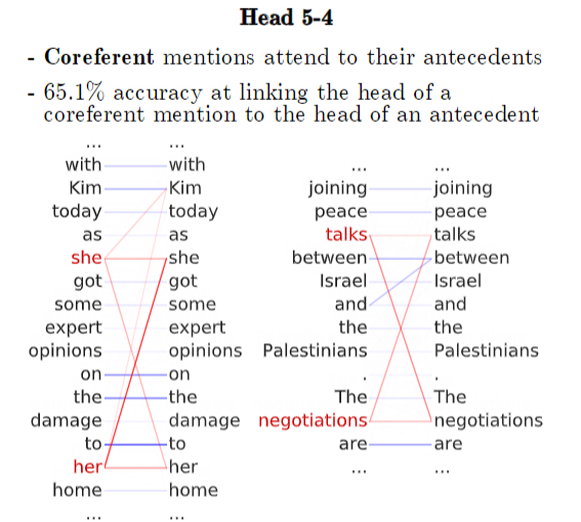
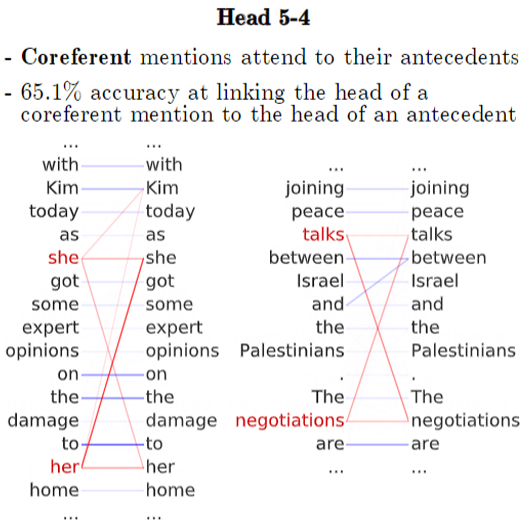
done BERT, done TransformerXL, and started XLNet, problems with bert

diff --git a/Report_NLPAlgos/BERT.tex b/Report_NLPAlgos/BERT.tex
@@ -12,7 +12,7 @@ Previous methods like \textbf{ULMFiT} and \nameref{sec:ELMo} use a \hyperref[sec
 \centering
 \includegraphics[width=0.9\textwidth]{imgs/bert_vs_elmo_vs_gpt.png}
 \vspace{-5pt}
-\caption{\footnotesize Comparing pre-training models: \nameref{sec:BERT} uses a \hyperref[sec:BidirectionalLM]{bidirectional} \nameref{sec:Transformer}. OpenAI GPT uses a \hyperref[sec:ForwardLM]{forward} \nameref{sec:Transformer}. \nameref{sec:ELMo} combines independently-trained \hyperref[sec:ForwardLM]{forward} and \hyperref[sec:BackwardLM]{backward} \hyperref[sec:LSTM]{LSTM}s. Among the three, only BERT embeddings are jointly conditioned on forward and backward context in all layers. Alongside architectural differences, BERT and OpenAI GPT are fine-tuning approaches, while ELMo is a feature-based approach (Devlin et al., 2019). From \emph{BERT: Pre-training of Deep Bidirectional Transformers for Language Understanding}, by Devlin et al., 2019. \url{https://arxiv.org/pdf/1810.04805.pdf}. Copyright 2019 by Devlin et al.}
+\caption{\footnotesize Comparing pre-training models: \nameref{sec:BERT} uses a \hyperref[sec:BidirectionalLM]{bidirectional} \nameref{sec:Transformer}. OpenAI GPT uses a \hyperref[sec:ForwardLM]{forward} \nameref{sec:Transformer}. \nameref{sec:ELMo} combines independently-trained \hyperref[sec:ForwardLM]{forward} and \hyperref[sec:BackwardLM]{backward} \hyperref[sec:LSTM]{LSTM}s. Among the three, only BERT embeddings are jointly conditioned on forward and backward context in all layers. Alongside architectural differences, BERT and OpenAI GPT are fine-tuning approaches, while ELMo is a feature-based approach (Devlin et al., 2019). \textit{NOTE: $E_n =$ the $n$-th token in the input sequence, and $T_n =$ the corresponding output embedding}. From \emph{BERT: Pre-training of Deep Bidirectional Transformers for Language Understanding}, by Devlin et al., 2019. \url{https://arxiv.org/pdf/1810.04805.pdf}. Copyright 2019 by Devlin et al.}
 \vspace{-5pt}
 \label{fig:NAME}
 \end{figure}
@@ -69,76 +69,59 @@ Ordinary \hyperref[sec:LanguageModels]{language models} perform badly for tasks 
 
 Training BERT using NSP is as follows: (1) sample sentence pairs \texttt{(A, B)} so that half the time \texttt{B} follows \texttt{A} (labeled as \texttt{IsNext}) and half the other time, \texttt{B} does not follow \texttt{A} (labeled as \texttt{NotNext}), then (2) BERT processes both sentences and uses a binary classifier to decide of \texttt{B} is the next sentence after \texttt{A} (Weng, 2019). 
 
+
+\subsection{Experimental Results of BERT} \label{sec:BERTExperimentalResults}
+
+% NOTE: the top width must be +0.5 more than below texwidth measure
+\begin{program}
+\begin{wrapfigure}{L}{0.7\textwidth}
+\begin{center}
+    \includegraphics[width=0.53\textwidth]{imgs/table_bert_vsOtherModels.png}
+\end{center}
+\captionof{table}{\footnotesize Accuracy (\%) of several models on \nameref{nlptask:sentimentclassificationSC} SST dataset. BERT has highest accuracy scores. From \emph{Table B.II in Fine-Grained Sentiment Classification Using BERT}, by Munikar et al., 2019. \url{https://arxiv.org/pdf/1910.03474.pdf}. Copyright 2019 by Munikar et al.}
+%\vspace{-5pt}
+\label{tbl:bertExperimentResults}
+\end{wrapfigure}
+
+Using a simple accuracy measure, Munikar et al. (2019) found that a pre-trained BERT model fine-tuned for \nameref{nlptask:sentimentanalysisSA} task outperformed complex models such as \hyperref[sec:RNN]{RNN}s and CNNs. The \cref{tbl:bertExperimentResults} includes results on phrases and entire reviews. 
+
+
+This proves \nameref{nlptask:transferlearning} is possible with BERT's deep contextual \hyperref[sec:BidirectionalLM]{bidirectional language model}.
+\end{program}
+
+
 \subsection{Probing BERT} \label{sec:ProbingBERT}
 
 BERT has surpassed state-of-the-art performance in a wide range of \hyperref[app:Appendix_NLPTasks]{nlp tasks} but it is not known why. Clark et al. (2019) use an ``attention-based probing classifier" to study BERT's internal vector representations to understand what kinds of linguistic features BERT learns from its self-supervised training on unlabeled data. 
 
+
+
 \subsubsection{BERT Learns Dependency Syntax} \label{sec:BERTLearnsSyntax}
 
-
-
-
-
 Firstly, Clark et al. (2019) found that BERT's attention heads behave similarly, like focusing on positional offsets or attending broadly over an entire sentence. 
----------
 
-While individual attention heads do not capture syntax dependency structure as a whole, it was found that certain attention heads are better at certain syntax dependency relations. For example, the heads detect ``direct objects of verbs, determiners of nouns, objects of prepositions, and objects of possessive pronouns with > $75 \%$ accuracy (Clark et al., 2019). 
-
-
-\begin{figure}[h]
-\vspace{-5pt}
-\centering
-\includegraphics[width=0.95\textwidth]{imgs/bert_attentionheads_SEP.png}
-\vspace{-5pt}
-\caption{\footnotesize BERT's attention heads in layers 6-10 spend more than half the average attention to separator tokens; deep heads attend to punctuation, while middle heads attend to \texttt{[SEP]}, and early heads attend to \texttt{[CLS]}. From \emph{What Does BERT Look At? An Analysis of BERT's Attention}, by Clark et al., 2019. \url{https://arxiv.org/abs/1906.04341}. Copyright 2019 by Clark et al.}
-\vspace{-5pt}
-\label{fig:bertSEPAttention}
-\end{figure}
-
-
-\cref{fig:bertHeadDirectObject} shows that attention heads 8-10 learn how direct objects attend to their verbs, and achieves high accuracy at the direct object relation task.
-
-
-
-
+Also, while individual attention heads do not capture syntax dependency structure as a whole, it was found that certain attention heads are better at certain syntax dependency relations. For example, the heads detect ``direct objects of verbs, determiners of nouns, objects of prepositions, and objects of possessive pronouns with > $75 \%$ accuracy (Clark et al., 2019). 
 
 \begin{figure}
 \centering
 \begin{minipage}{.4\textwidth}
   \centering
-  \includegraphics[width=.95\textwidth]{imgs/bert_headsDirectObject.png}
-  \captionof{figure}{\footnotesize THE DIRECT OBJECT GUY. From \emph{What Does BERT Look At? An Analysis of BERT's Attention}, by Clark et al., 2019. \url{https://arxiv.org/abs/1906.04341}. Copyright 2019 by Clark et al.}
+  \includegraphics[width=\textwidth]{imgs/bert_headsDirectObject.png}
+  \captionof{figure}{\footnotesize BERT attention heads capture syntax. In heads 8-10, direct objects are found to attend to their verbs. Line darkness indicates attention strength. Red indicates attention to/from red words, to highlight certain attentional behaviors. From \emph{What Does BERT Look At? An Analysis of BERT's Attention}, by Clark et al., 2019. \url{https://arxiv.org/abs/1906.04341}. Copyright 2019 by Clark et al.}
   \label{fig:bertHeadDirectObject}
 \end{minipage} \hspace{2em}%
 \begin{minipage}{.4\textwidth}
   \centering
-  \includegraphics[width=0.95\textwidth]{imgs/bert_headsCoref.png}
-  \captionof{figure}{\footnotesize THE DIRECT OBJECT GUY. From \emph{What Does BERT Look At? An Analysis of BERT's Attention}, by Clark et al., 2019. \url{https://arxiv.org/abs/1906.04341}. Copyright 2019 by Clark et al.}
+  \includegraphics[width=\textwidth]{imgs/bert_headsCoref.png}
+  \captionof{figure}{\footnotesize BERT attention heads capture syntax. In heads 5-4, BERT does some \nameref{nlptask:coreferenceresolutionCR} with high accuracy at linking the head of a coreferent mention to the head of an antecedent. From \emph{What Does BERT Look At? An Analysis of BERT's Attention}, by Clark et al., 2019. \url{https://arxiv.org/abs/1906.04341}. Copyright 2019 by Clark et al.}
   \label{fig:bertCoref}
 \end{minipage}
 \end{figure}
 
 
+\cref{fig:bertHeadDirectObject} shows that attention heads 8-10 learn how direct objects attend to their verbs, and achieves high accuracy at the direct object relation task. The fact that BERT learns this via self-supervision coupled with the heads' propensity for learning syntax may explain BERT's success. 
 
-
-
-
-
-
-
-
-Also,  shows how ti godes well on coreference. 
-
-
-The fact that BERT learns this via self-supervision coupled with the heads' propensity for learning syntax may explain BERT's success. 
-
-
-
-
----------
-
-
-Thirdly, BERT's attention heads performed well for \nameref{nlptask:coreferenceresolutionCR}. 
+Also, \cref{fig:bertCoref} shows BERT's attention heads performed well for the semantic task \nameref{nlptask:coreferenceresolutionCR}. This task is more challenging than syntax tasks since \hyperref[nlptask:coreferenceresolutionCR]{coreference} links span longer than syntax dependencies, and even state-of-the-art models do worse at \hyperref[nlptask:coreferenceresolutionCR]{coreference} than syntactic resolution. 
 
 
 
@@ -187,7 +170,31 @@ The above two investigations support the conclusion that BERT's attention heads 
 
 
 
-\subsubsection{BERT's Success At Polysemy} % PAPER: DOEs bert make any sense
+\subsubsection{BERT's Contribution To Polysemy} % PAPER: DOEs bert make any sense
 
-\subsection{How Contextual are CWEs?} % PAPER: how contextual are ...
-% TODO: or keep this paper as a view into CWE's only? 
+Using a kNN classification, Wiedemann et al. (2019) compared the \hyperref[sec:SolutionWithContextEmbs]{contextual embeddings (CWE)s} of \nameref{sec:ELMo} and \nameref{sec:BERT} on the \nameref{nlptask:wordsensedisambiguatioNWSD} task and found that \nameref{sec:BERT} places \hyperref[sec:Polysemy]{polysemic} words into distinct regions according to their senses, while \nameref{sec:ELMo} cannot. Specifically, in \nameref{sec:ELMo} embeddings, major word senses are less strongly separated than in the \nameref{sec:BERT} embedding space, where some senses are sharply clustered. 
+
+In \cref{tbl:bertPolysemy} Wiedemann et al. (2019) also made inferences about the semantic features of \nameref{sec:BERT}'s embeddings by studying how \nameref{sec:BERT} matched word senses from the test set to a given \hyperref[sec:Polysemy]{polysemic} word from a training set.
+
+
+
+\begin{table}[ht!]
+  \centering
+  \caption{\footnotesize Example predictions by \nameref{sec:BERT} based on nearest neighbor sentences. The \hyperref[sec:Polysemy]{polysemic} word is \textbf{bolded}, and has a WordNet description tag describing its correct sense to be predicted. {\color{ForestGreen} True positives by BERT are green} while {\color{Red} false positives made by BERT are red}. From \emph{(adapted) Table 4 in Does BERT Make Any Sense? Interpretable Word Sense Disambiguation with Contextualized Embeddings}, by Wiedemann et al., 2019. \url{https://arxiv.org/pdf/1909.10430.pdf}. Copyright 2019 by Wiedemann et al.}
+  \begin{tabular}{ c }
+    
+    \begin{minipage}{.9\textwidth}
+      \includegraphics[width=\linewidth]{imgs/table_bertPolysemyTests.png}
+    \end{minipage}
+    
+  \end{tabular}
+  \label{tbl:bertPolysemy}
+\end{table}
+
+
+
+\nameref{sec:BERT} did well when the data had \emph{vocabulary overlap} in context, such as in example (2) ``along the \emph{bank} of the river" (the input text) and `along the \emph{bank} of the river Greta" (nearest neighbor found by \nameref{sec:BERT}). \nameref{sec:BERT} also predicted correctly when text had \emph{semantic overlap}, such as in example (3)'s input ``little earthy bank" and nearest neighbor ``huge bank [of snow]". 
+
+However, \emph{vocabulary and semantic overlap in conjunction} led \nameref{sec:BERT} to make false predictions. Example (5) in \cref{tbl:bertPolysemy} shows \nameref{sec:BERT} predicted ``land bank" as in a \emph{supply or stock} while the correct sense of ``land bank" was \emph{financial institution}. In example (10), the correct word sense of ``balloon" is a verb while \nameref{sec:BERT} predicted a noun sense, so it did not even get the word class correct. Even harder for \nameref{sec:BERT} was to distinguish verb senses correctly; exmaple (12) shows the correct sense label of the \hyperref[sec:Polysemy]{polysemic} word ``watch" was \emph{to look attentively} while BERT's predicted sense was \emph{to follow with the eyes or the mind; observe}. 
+
+Despite \nameref{sec:BERT}'s limitations, the authors conclude still that \nameref{sec:BERT} captures \hyperref[sec:Polysemy]{polysemy} more successfully than \nameref{sec:ELMo}, inspiring future work in using \nameref{nlptask:wordsensedisambiguatioNWSD} to compare \nameref{sec:BERT} to models like \nameref{sec:XLNet}. 

diff --git a/Report_NLPAlgos/TransformerXL.tex b/Report_NLPAlgos/TransformerXL.tex
@@ -1,1 +1,106 @@
 \section{Transformer-XL} \label{sec:TransformerXL}
+
+\subsection{Problem With Transformer} \label{sec:ProblemWithTransformer}
+
+
+\subsubsection{Fixed-Length Segments} \label{sec:FixedLengthContext}
+
+\nameref{sec:Transformer}s are capable of learning longer term dependencies but instead perform poorer than they should because their inputs are dominated by \textbf{fixed-length context}. Limited context-dependency means that the  largest dependency distance between characters is limited to the input length, which does not allow the \nameref{sec:Transformer} to remember a word that appeared several sentences ago (Dai et al., 2019). 
+
+A \emph{vanilla} (ordinary) \nameref{sec:Transformer} model adapted by Al-Rfou et al. (2018) uses fixed-length context since the model is trained within its segment embeddings. This effectively blocks information from flowing across the segment embeddings during both the \hyperref[sec:ForwardProp]{forward} and \hyperref[sec:BackwardProp]{backward pass}. This result, visible in \cref{fig:transXL_VanillaSegment}, causes the \nameref{sec:Transformer} to forget context from previous segments. 
+
+
+\begin{figure}[h]
+\vspace{-5pt}
+\centering
+\includegraphics[width=0.99\textwidth]{imgs/transXL_vanillaSegmentation.png}
+\vspace{-5pt}
+\caption{\footnotesize Vanilla \nameref{sec:Transformer} with segment embedding length $ = 4$. Training the model in fixed-length segments while disregarding natural sentence boundaries results in the \emph{context fragmentation problem}: during each evaluation step, the \nameref{sec:Transformer} consumes a segment embedding and makes a prediction at the last position. Then at the next step, the segment is shifted right by one position only, and the new segment must be processed from scratch, so there is no context dependency for first tokens of each segment and between segments. From \emph{Transformer-XL: Attentive Language Models Beyond a Fixed-Length Context}, by Dai et al., 2019. \url{https://arxiv.org/pdf/1901.02860.pdf}. Copyright 2019 by Dai et al.}
+\vspace{-5pt}
+\label{fig:transXL_VanillaSegment}
+\end{figure}
+
+
+
+\subsubsection{Context Fragmentation Problem} \label{sec:ContextFragmentationProblem}
+
+The \nameref{sec:Transformer}'s use of \textbf{fixed-length context} and lack of regard for the natural semantic boundaries of sentences causes it to lose contextual information and perform more poorly than it could. This is called the \textbf{context fragmentation problem}.
+
+
+\subsection{Motivation for Transformer-XL} \label{sec:MotivationForTransformerXL}
+
+According to Dai et al. (2019), the \textbf{Transformer-XL} (extra long) uses a new architecture that enables learning longer dependencies without ``disrupting temporal coherence." Instead of breaking up sequences into arbitrary \textbf{fixed lengths}, the Transformer-XL \emph{respects natural language boundaries} like sentences and paragraphs, helping it gain richer context over sentences, paragraphs, and even longer texts like documents. It is composed of a \hyperref[sec:SegmentLevelRec]{segment-level recurrence mechanism} and \hyperref[sec:RelativePosEnc]{relative positional encoding} method to resolve \textbf{context fragmentation} and enable representation of longer-spanning dependencies. 
+
+
+\subsection{Describing Transformer-XL} \label{sec:DescribingTransformerXL}
+
+\subsubsection{Segment-Level Recurrence Mechanism} \label{sec:SegmentLevelRec}
+
+To resolve \textbf{context fragmentation}, the Transformer-XL employs a \textbf{segment-level recurrence mechanism} to capture long-term dependencies using information from previous segments. While intaking the first segment of tokens like the vanilla \nameref{sec:Transformer}, this new recurrence mechanism also stores hidden layer outputs. This is so that when a segment is being processed, each hidden layer receives two inputs: (1) the previous hidden layer outputs of the \emph{current segment} (as the vanilla model, shown as gray arrows in \cref{fig:transXL_extendedContext}), and (2) the previous hidden layer outputs of the \emph{previous segment} (green arrows in \cref{fig:transXL_extendedContext}). These features build long-term memory (Horev, 2019). 
+
+\begin{figure}[h]
+\vspace{-5pt}
+\centering
+\includegraphics[width=0.99\textwidth]{imgs/transXL_extendedcontext.png}
+\vspace{-5pt}
+\caption{\footnotesize Segment level recurrence mechanism at work: the hidden state for previous segment is \emph{fixed} and \emph{stored} to later be reused as an extended context while the new segment is processed. Like in \nameref{sec:Transformer}, gradient updates or training still occurs within a segment, but the extended context feature allows historical information to now be incorporated. From \emph{Transformer-XL: Attentive Language Models Beyond a Fixed-Length Context}, by Dai et al., 2019. \url{https://arxiv.org/pdf/1901.02860.pdf}. Copyright 2019 by Dai et al.}
+\vspace{-5pt}
+\label{fig:transXL_extendedContext}
+\end{figure}
+
+Although gradient updates or training still occurs within a segment, the extended context feature allows historical information to be fully used, avoiding context fragmentation. 
+
+Formally, the recurrence mechanism is described as follows. Let $\textbf{s}_\tau = \Big\{ x_{\tau_1}, x_{\tau_2}, ..., x_{\tau_L} \Big\}$ and $\textbf{s}_{\tau + 1} = \Big\{ x_{{\tau+1}_1}, x_{{\tau+1}_2}, ..., x_{{\tau+1}_L} \Big\}$ denote two consecutive segment embeddings of length $L$. Let $\textbf{h}_\tau^n \in \mathbb{R}^{L \times d}$ be the $n$-th layer's hidden state vector produced for the $\tau$-th segment $\textbf{s}_\tau$, where $d$ is the hidden dimension. Then the $n$-th layer's hidden state for next segment $\textbf{s}_{\tau + 1}$ is calculated as:
+$$
+\begin{array}{ll}
+\large \Tilde{\textbf{h}}_{\tau + 1}^{n-1} = \Big\{ \textit{StopGradient}\Big( \textbf{h}_\tau^{n-1} \circ \textbf{h}_{\tau+1}^{n-1} \Big) \Big\} \\\\
+%
+\large \textbf{q}_{\tau+1}^n, \;\;\; \textbf{k}_{\tau+1}^n, \;\;\; \textbf{v}_{\tau+1}^n = \textbf{h}_{\tau+1}^{n-1} \cdot \textbf{W}_q^T, \;\;\; \Tilde{\textbf{h}}_{\tau+1}^{n-1} \cdot \textbf{W}_k^T, \;\;\; \Tilde{\textbf{h}}_{\tau+1}^{n-1} \cdot \textbf{W}_v^T \\\\
+%
+\large \textbf{h}_{\tau+1}^n = \textit{TransformerLayer} \Big( \textbf{q}_{\tau+1}^n, \;\;\; \textbf{k}_{\tau+1}^n \;\;\; \textbf{v}_{\tau+1}^n \Big)
+\end{array}
+$$
+where the first line indicates that the two consecutive hidden states are concatenated; $\textbf{W}$ denotes model parameters; and $\textbf{q}, \textbf{k}, \textbf{v}$ are the \hyperref[sec:QKV]{query, key, and value vectors}. The key feature here, compared to standard \nameref{sec:Transformer}, is that the key $\textbf{k}_{\tau+1}^n$ and value $\textbf{v}_{\tau+1}^n$ are conditioned on the elongated context $\Tilde{\textbf{h}}_{\tau+1}^{n-1}$ \emph{and} the previous segment's cached context $\textbf{h}_\tau^{n-1}$. This is visible by the green lines in \cref{fig:transXL_extendedContext}.  
+
+This new recurrence scheme allows more efficient computations. Also, it can cache multiple previous segments not just the previous one, making it more similar to an \hyperref[sec:RNN]{RNN's memory}. 
+
+
+\subsubsection{Relative Positional Encoding} \label{sec:RelativePosEnc}
+
+Introducing the \hyperref[sec:SegmentLevelRec]{segment-level recurrence mechanism} presented a problem: how can positional word order be kept coherent when reusing hidden states? The vanilla \nameref{sec:Transformer} kept word order straight using \hyperref[sec:PosEncodings]{positional encodings}. But since the standard \nameref{sec:Transformer}'s \hyperref[sec:PosEncodings]{positional encodings} are based on \emph{absolute distance} between tokens, applying these directly to the Transformer-XL caused consecutive word embedding sequences to be associated with the same \hyperref[sec:PosEncodings]{positional encoding}, so the model could not distinguish the difference in positions of consecutive input tokens. This means that tokens from different segments had the same \hyperref[sec:PosEncodings]{positional encodings}, even though their position and importance could differ. This confused the model. 
+
+To remedy this and make their recurrence scheme work, the authors created a \textbf{relative \hyperref[sec:PosEncodings]{positional encoding}} scheme that works in conjunction with each \hyperref[sec:AttentionMechanism]{attention score} of each layer, rather than encoding position only before the first layer, and which is based on \emph{relative} distance between tokens, not \emph{absolute} position (Horev, 2019). Formally, the authors created a relative \hyperref[sec:PosEncodings]{positional encoding}s matrix whose $i$-th row indicates a relative distance of $i$ between two positions, and injected this dynamically into the attention module. This lets the query vector now distinguish between two tokens from their different distances. Now, from Dai et al. and Horev (2019), the attention head calculation has four parts: 
+\begin{enumerate}
+    \item \textbf{Content-based addressing: }the original attention score without \hyperref[sec:PosEncodings]{positional encoding}.
+    
+    \item \textbf{Content-dependent positional bias: }with respect to the current query. It uses a sinusoidal function that get distance between tokens instead of the \emph{absolute position} of a single current token. 
+    
+    \item \textbf{Learned global content bias: } is a learned vector that accounts for the other tokens in the key matrix. This is term (c).  
+    
+    \item \textbf{Learned global positional bias: }is a learned vector that adjusts the importance based only on distance between tokens, using the intuition that recent previous words are more relevant that a word from the previous paragraph. This is term (d). 
+\end{enumerate}
+
+
+\subsection{Experimental Results of Transformer-XL} \label{sec:ExpResultsTransXL}
+
+\subsubsection{Ablation Study for Investigating Segment-Level Recurrence}
+
+The authors seek to isolate the effects of Transformer-XL's new recurrence mechanism, using the segment-level recurrence with different encoding schemes. In \cref{tbl:transXL_ablationRECURR}, Shaw et al. (2018) uses relative encoding, and Vaswanie and Al-Rfou use absolute encodings. 
+
+
+
+
+
+
+\begin{figure}[h]
+\vspace{-5pt}
+\centering
+\includegraphics[width=0.99\textwidth]{imgs/table_transXL_ablationREC.png}
+\vspace{-5pt}
+\captionof{table}{\footnotesize Ablation study for \nameref{sec:SegmentLevelRec} on the WikiText-103 data set. \textbf{PPL best} (model output) means perplexity score obtained using an optimal \hyperref[sec:BackwardProp]{backpropagation} training time length. \textbf{Attn Len} (model input) is the shortest possible attention length during evaluation to achieve the corresponding PPL best. From \emph{Transformer-XL: Attentive Language Models Beyond a Fixed-Length Context}, by Dai et al., 2019. \url{https://arxiv.org/pdf/1901.02860.pdf}. Copyright 2019 by Dai et al.}
+\vspace{-5pt}
+\label{tbl:transXL_ablationRECURR}
+\end{figure}
+
+
+The \cref{tbl:transXL_ablationRECURR} shows that both segment-level recurrence and the relative positional encoding must be used in conjunction for best performance, since when using the new recurrence with the new encodings, the Transformer-XL can generalize to larger attention sequences (with length $500$) during evaluation while getting lowest perplexity score of $26.7$. However, if the Transformer-XL does not use the new recurrence and uses the new encodings, even using shorter attention sequences of $260$ and $120$ with different \hyperref[sec:BackwardProp]{backprop} loss schemes cannot help lower its perplexity scores, as shown in the last two rows of \cref{tbl:transXL_ablationRECURR}'s Transformer-XL section. The standard \nameref{sec:Transformer} does poorly in general, showing high overall perplexities even using short attention lengths. 

diff --git a/Report_NLPAlgos/XLNet.tex b/Report_NLPAlgos/XLNet.tex
@@ -1,1 +1,53 @@
 \section{XLNet} \label{sec:XLNet}
+
+While most commonly in NLP models are in the form of neural networks that are pretrained on large, unlabeled data and then fine-tuned for specific tasks, different unsupervised pretraining loss functions have also been explored. From these, \textbf{autoregressive (AR) \hyperref[sec:LanguageModels]{language modeling} } and \textbf{autoencoding (AE) \hyperref[sec:LanguageModels]{language modeling} } have been the most powerful pretraining objectives. 
+
+\subsection{autoregressive language model (AR)}\label{sec:autoregressiveLM}
+
+From Yang et al. (2020), an \textbf{autoregressive \hyperref[sec:LanguageModels]{language model} (AR)} \emph{autoregressively} estimates the probability distribution of a text sequence $\textbf{x} = \Big\{ x_1,...,x_T \Big\}$. The AR model factorizes the likelihood into a forward product, $P(\textbf{x}) = \prod_{t=1}^T P \Big(x_t \; | \; \textbf{x}_{< t} \Big)$, using tokens before a timestep, or a backward product, $P(\textbf{x}) = \prod_{t=T}^1 P \Big(x_t \; | \; \textbf{x}_{> t} \Big)$, using tokens after a timestep. Then, a \hyperref[sec:NeuralLM]{neural network} is trained to model either conditional distribution. But due to AR's unidirectional context, it cannot model bidirectional contexts, and thus performs poorly for downstream \hyperref[app:Appendix_NLPTasks]{nlp tasks}. 
+
+\subsection{autoencoding language model (AE)}\label{sec:autoencodingLM}
+
+An \textbf{autoencoding \hyperref[sec:LanguageModels]{language model} (AE)} recreates original data from corrupted input, like \nameref{sec:BERT}. Given a input sequence, some tokens are randomly masked and the model must guess the correct tokens. Since AE modeling does not estimate densities, it can learn bidirectional contexts. 
+
+
+\subsection{Problems With BERT}
+
+From Yang et al. (2020), a \emph{forward} \nameref{sec:autoregressiveLM} maximizes the likelihood of an input sequence by using a forward autoregressive using a \emph{forward} autoregressive decomposition: 
+$$
+\textit{max}_\theta \Bigg( \textit{log}  \; P_\theta(\textbf{x})  \Bigg) = \sum_{t=1}^T \textit{log} \; P_\theta \Big(x_t \; | \; \textbf{x}_{< t} \Big)  
+$$
+
+Meanwhile, \nameref{sec:autoencodingLM}s like \nameref{sec:BERT} takes an input sequence $\textbf{x}$, and corrupts it $\hat{\textbf{x}}$ by masking some tokens. Let $\overline{\textbf{x}}$ denote only masked tokens. Then the autoencoding's objective is to recreate the masked tokens $\overline{\textbf{x}}$ from the corrupted input $\hat{\textbf{x}}$: 
+$$
+\textit{max}_\theta \Bigg( \textit{log}  \; P_\theta(\overline{\textbf{x}} \; | \; \hat{\textbf{x}})  \Bigg) \;\; \mathlarger{\mathlarger{\approx}} \;\; \sum_{t=1}^T m_t \; \textit{log} \; P_\theta \Big(x_t \; | \; \hat{\textbf{x}} \Big) 
+$$
+where $m_t = 1$ indicates that the input token $x_t$ is masked. 
+
+
+
+% CORRP DATA
+Artificial symbols like masking tokens used in \nameref{sec:BERT}'s pretraining \nameref{sec:maskedlanguagemodelMLM} task do not appear in real data during fine-tuning, causing a discrepancy between these steps. 
+
+
+% INDEP
+Also, \nameref{sec:BERT} trivially predicted tokens are independent of each other given the unmasked tokens, but this is generally not true since long-range dependencies are abundant in NLP. 
+
+
+\subsection{Motivation for XLNet}
+
+\subsection{Describing XLNet}
+
+key question ....
+
+
+
+\subsubsection{Permutation Language Model (AR)}
+
+\subsubsection{Two-Stream Self-Attention }
+
+
+\subsubsection{Relative Segment Encodings}
+
+
+\subsection{Experimental Results of XLNet}

diff --git a/Report_NLPAlgos/Appendix_NLPTasks.tex b/Report_NLPAlgos/Appendix_NLPTasks.tex
@@ -114,7 +114,9 @@ The \textbf{entailment recognition} task is a kind of lexical entailment task or
 
 Given a pair of words, the \textbf{entailment directionality prediction} task must predict if the previous word entails the next one, or vice versa. It is known that entailment holds for the given word pair and only its directionality is being predicted (Brazinkas et al., 2018). 
 
+\subsection{sentiment classification (SC)} \label{nlptask:sentimentclassificationSC}
 
+See \nameref{nlptask:sentimentanalysisSA}.
 
 \subsection{sentiment analysis (SA)} \label{nlptask:sentimentanalysisSA}
 
@@ -164,6 +166,10 @@ In the \textbf{span labeling} task, spans or groups of words are labeled. This c
 
 \textbf{Tokenization} or \textbf{segmentation} is the task-specific process of segmenting text into machine-understandable language. The term \emph{tokens} describes words but also punctuation, hyperlinks, and possessive markers, such as apostrophes (Mohler, 2018). For example, lemma-based tokenization would specify that the tokens ``cat" and plural ``cats" would mean one word with the same stem or core meaning-bearing unit. Other forms of tokenization exist to differentiate word form, so those would be distinct tokens. Sentences and even characters can be tokenized out of a paragraph (Chromiak, 2017). Types of tokenization are \textbf{subword tokenization} and \textbf{sentence-piece tokenization}, a key feature in \nameref{sec:TransformerXL}. 
 
+
+\subsection{transfer learning} \label{nlptask:transferlearning}
+
+\textbf{Transfer learning} or \textbf{domain adaptation} describes how a model created for one task is reused for a different task. Popularly used in machine learning where pre-trained models like \nameref{sec:BERT} are used as starting points for downstream tasks that require much time and resources in order to train. Basically, knowledge of the first task is transferred to the second, often more specific, task (Brownlee, 2017).
 
 
 \subsection{natural language inference (NLI)} \label{nlptask:naturallanguageinferenceNLI}

diff --git a/Report_NLPAlgos/Transformer.tex b/Report_NLPAlgos/Transformer.tex
@@ -33,7 +33,7 @@ What does ``it” in this sentence refer to? Is ``it" referring to the road or t
 This is the motivation for \textbf{self-attention}: when the Transformer processes the word ``it", self-attention allows it to associate ``it" with ``animal". As the Transformer processes each word, self-attention allows it to look at other positions in the input sentence for clues to create a better encoding for this word. In each layer, a part of the attention mechanism that focuses on ``the animal" was \emph{baked in} to a part of the representation of the word ``it" when encoding this in the model (Trevett, 2020). 
 
 
-\subsubsection{Query, Key, Value}
+\subsubsection{Query, Key, Value} \label{sec:QKV}
 
 Formally, ``an \textbf{\textit{attention function}} can be described as mapping a query and a set of key-value pairs to an output, where the \textbf{query, keys, values}, and output are all vectors. The output is computed as a weighted sum of the values, where the weight assigned to each value is computed by a compatibility function of the query with the corresponding key" (Vaswani et al., 2017). 
 
